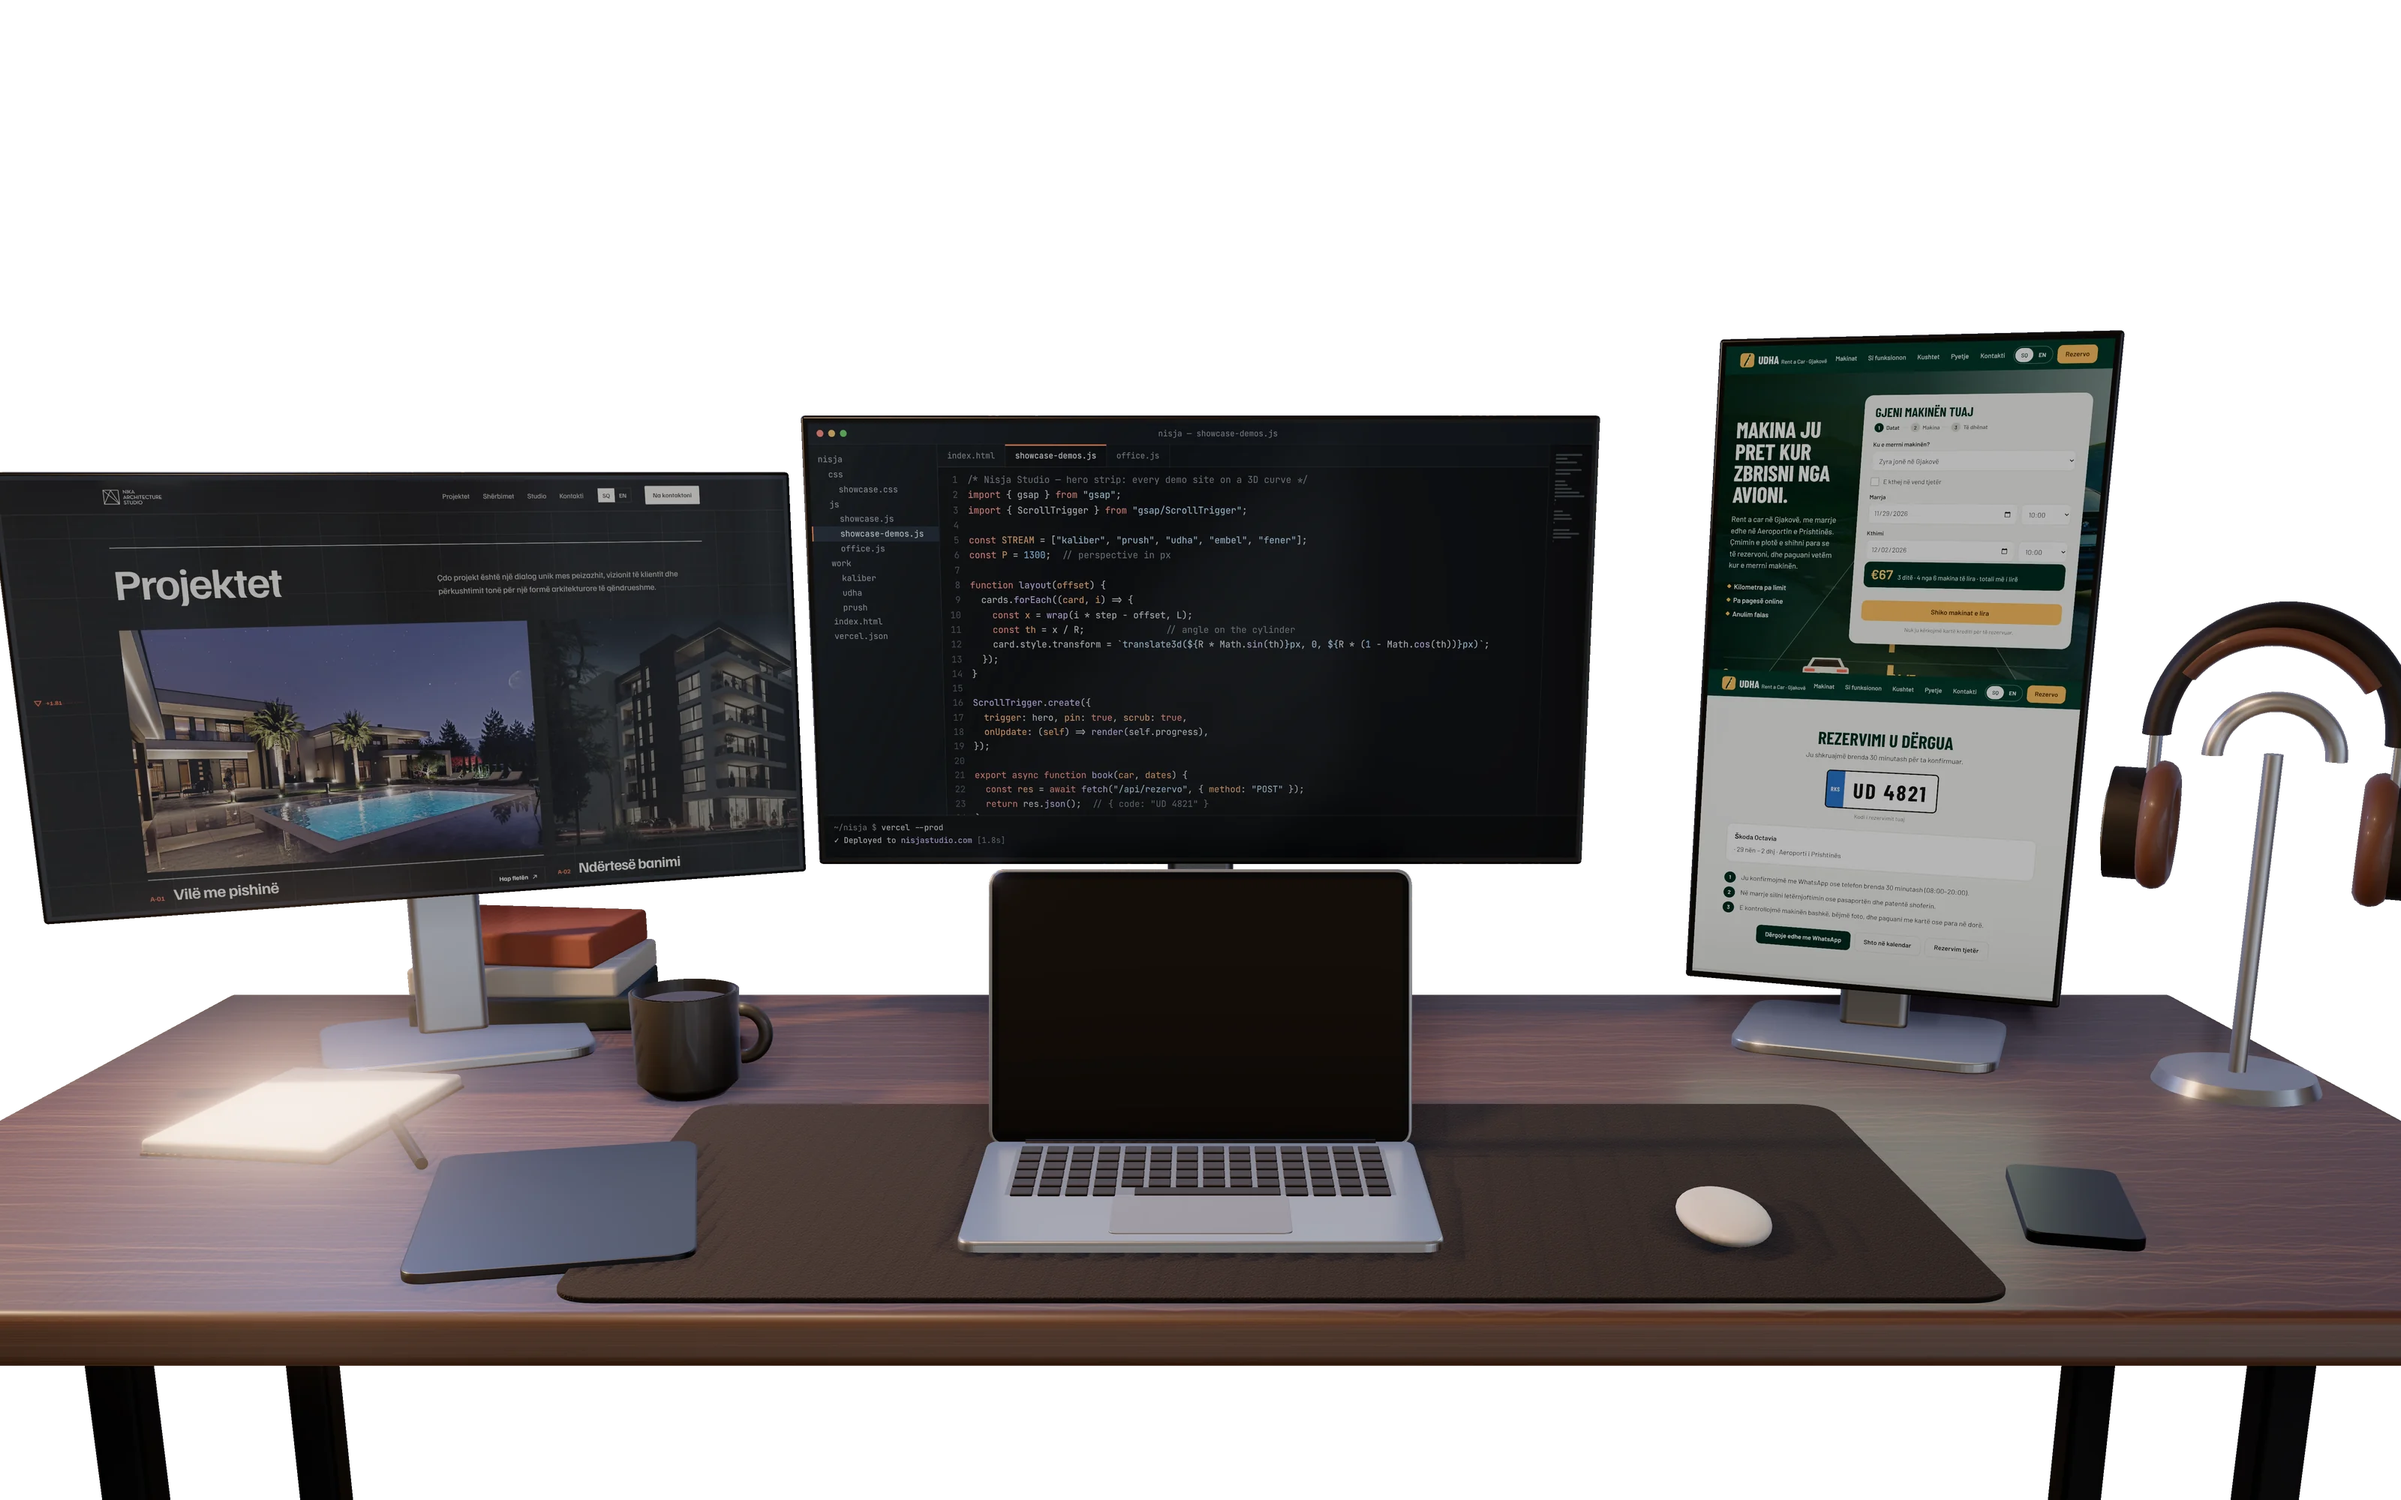
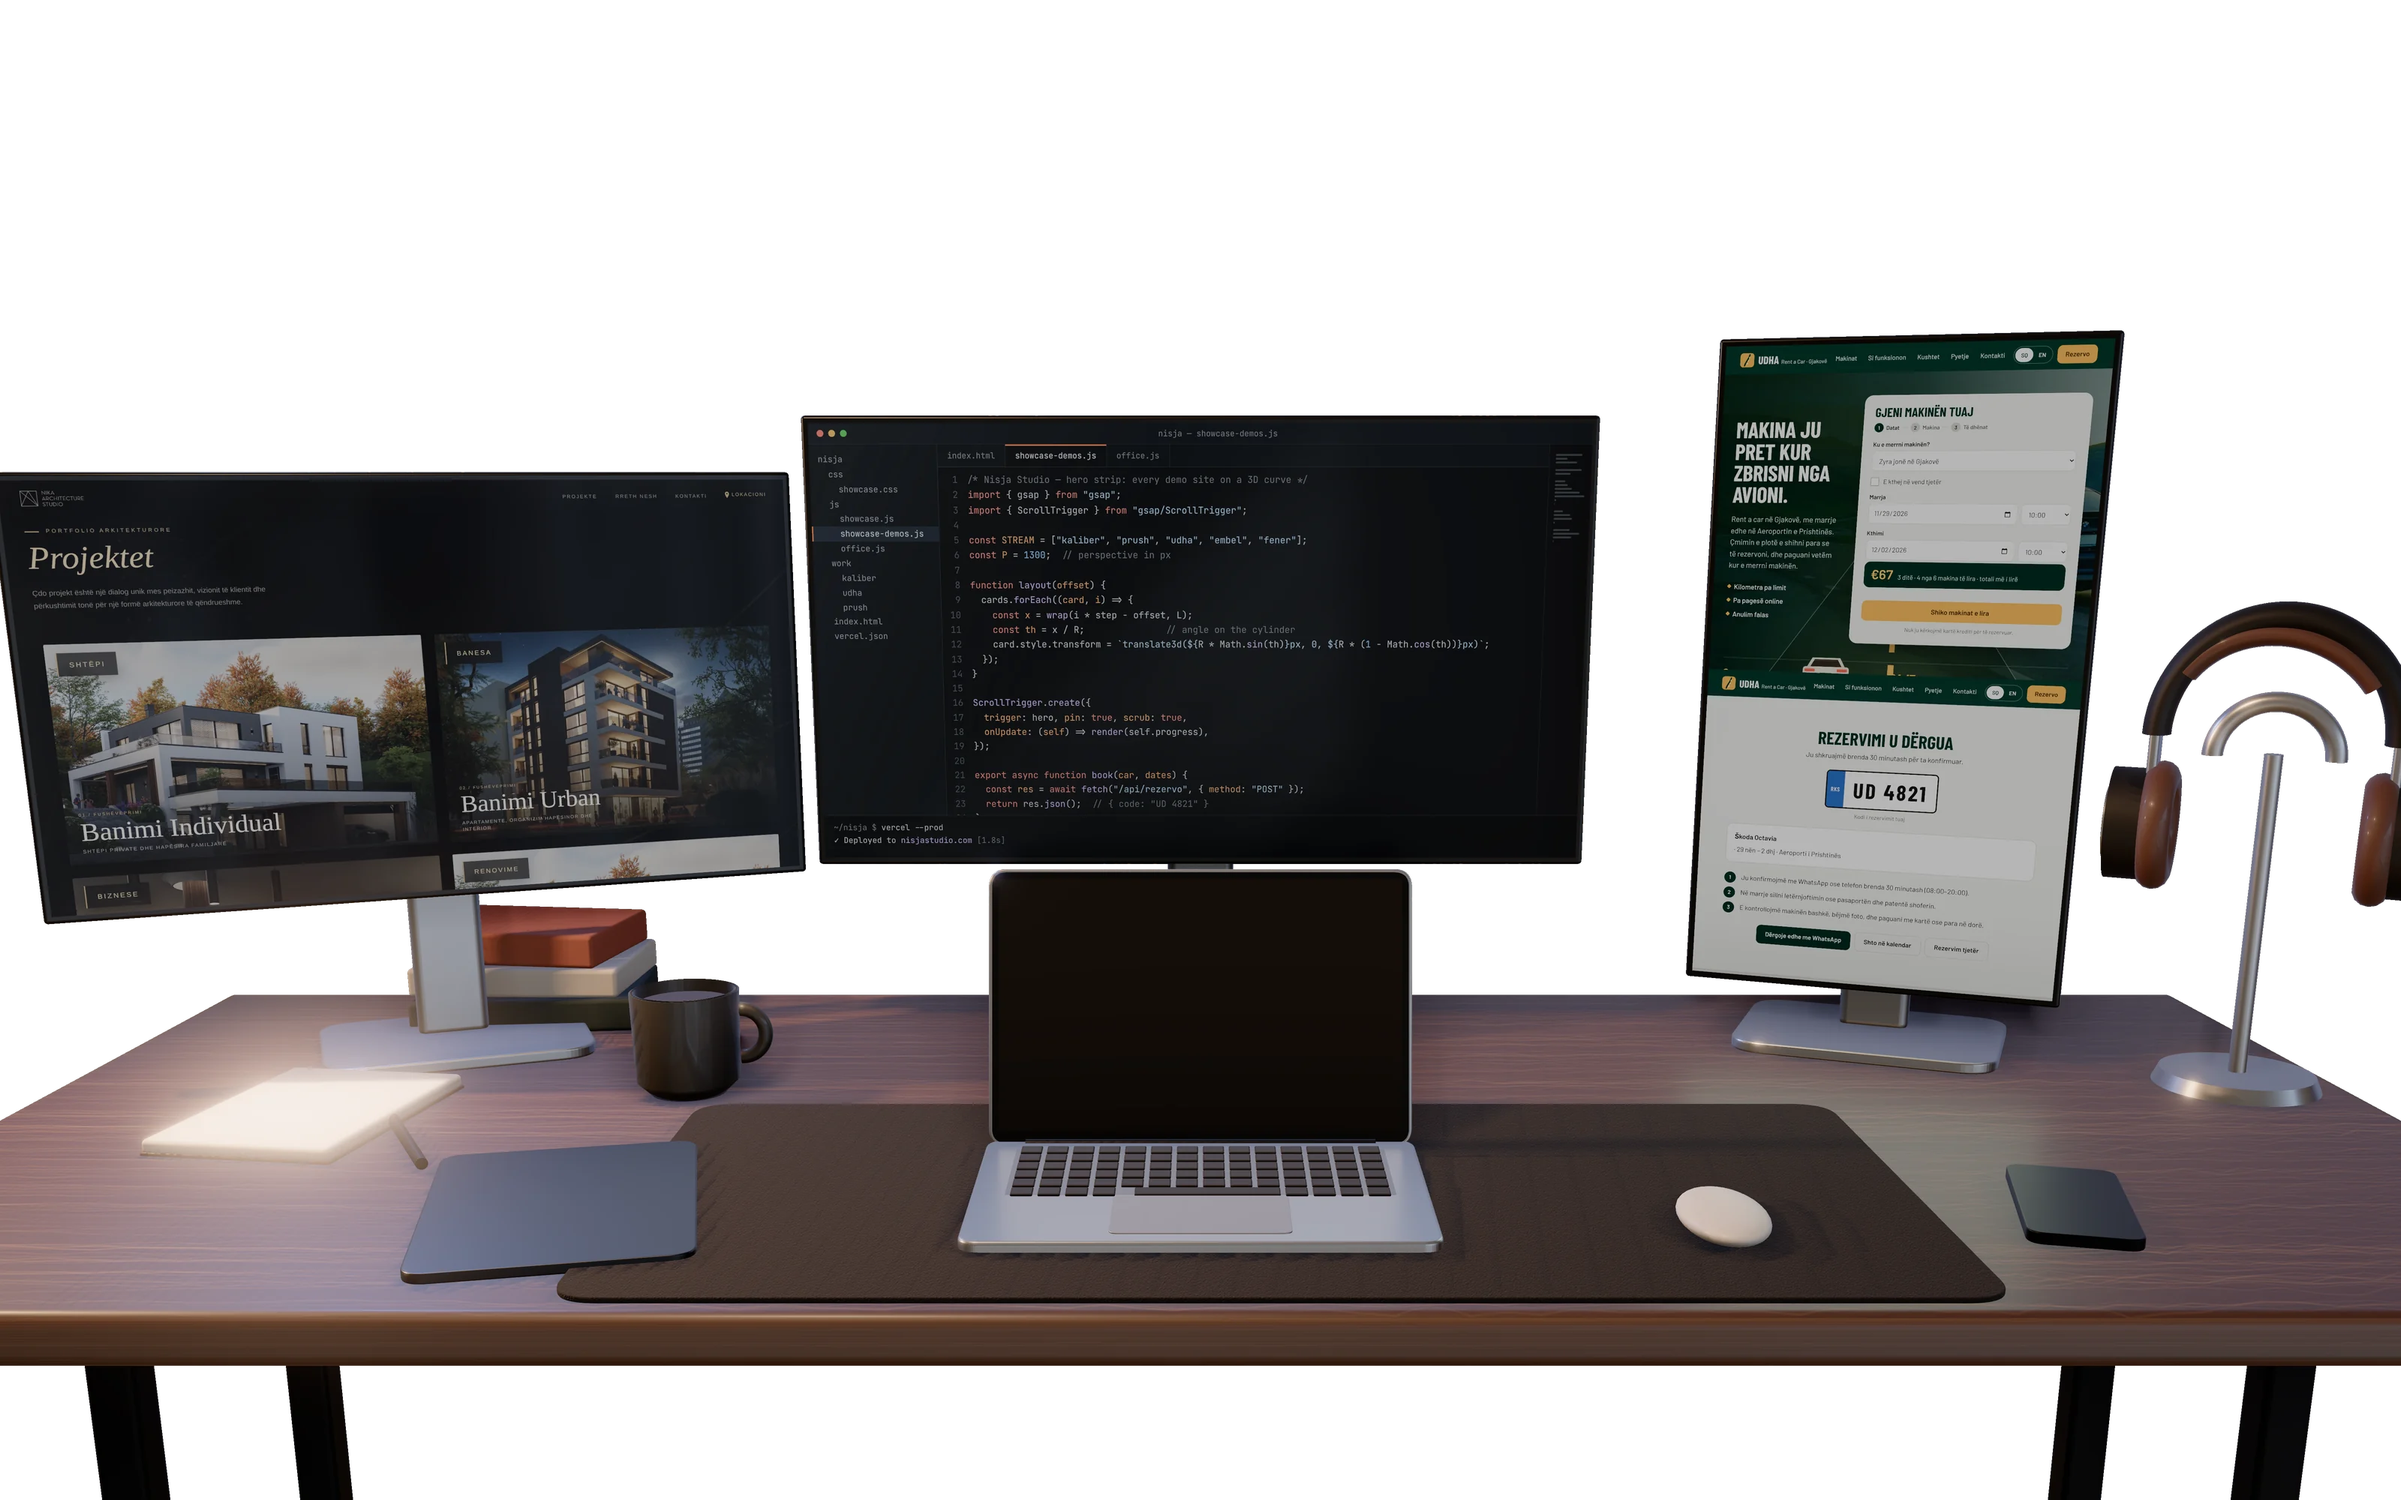
Test page B: real Nika projects on the monitor; locked, timed dive on phones
- left monitor shows the real nika-archi project grid (screenshot of the local copy, no edits)
- the dive no longer follows the page scroll: the page is locked while the desk shows, the first
  swipe/scroll/key plays a timed dive that ends at the top of the real site; one back up at the top reverses
- the laptop screen now covers the whole view on every screen shape before the hand-off

Claude-Session: https://claude.ai/code/session_01WXEzTtESFWsyUaJ2D8Uqiu

Changed region(s): [[0.0, 0.31, 0.3438, 0.62], [0.25, 0.31, 0.3125, 0.341]]

diff --git a/js/office.js b/js/office.js
@@ -1,16 +1,17 @@
-/* Nisja Studio — test page B: a Nisja workstation by a window over the city at night; one scroll flies
-   into the laptop and on into the real site, one scroll up brings you back.
+/* Nisja Studio — test page B: a Nisja workstation by a window over the city at night. One scroll, swipe
+   or key press plays the dive into the laptop and lands at the top of the real site; one back up at the
+   very top plays it in reverse.
    The scene was rendered once, offline and supersampled (js-src/desk-render.src.js), as two depth layers:
    "far" (the window and the night skyline) and "near" (the desk and everything on it, monitors showing
    Nika, the code editor and Udha already baked in with their glow and glass reflections).
    Every frame is drawn fresh on a GPU canvas from the full-resolution images, so the picture stays sharp
    at every point of the zoom. The fly-in is a depth-correct dolly: each layer scales by z / (z − d), so
    the desk rushes past faster than the city. When the laptop's screen fills the view, the canvas fades
-   into the real homepage hero, which is pinned underneath. */
+   into the real homepage, which sits underneath at the top of the page. */
 (function () {
   "use strict";
   var wrap = document.getElementById("zyra"), hero = document.querySelector(".sh");
-  if (!wrap || !hero || !window.gsap || !window.ScrollTrigger) return;
+  if (!wrap || !hero || !window.gsap) return;
   if (window.matchMedia("(prefers-reduced-motion: reduce)").matches) { wrap.remove(); return; }
   var root = document.documentElement, header = document.querySelector(".site-header");
   var T = (window.Nisja && window.Nisja.t) || function (sq) { return sq; };
@@ -43,9 +44,9 @@
     V = [(L[0] + L[2]) / 2, (L[1] + L[3]) / 2];
     s0 = Math.max(vw / F.w, vh / F.h);
     ox = Math.min(0, Math.max(vw - F.w * s0, vw / 2 - V[0] * s0)); oy = (vh - F.h * s0) / 2;
-    kEnd = framing === "land" ? Math.max(vw / (s0 * lw), vh / (s0 * lh)) : vw / (s0 * lw);
+    kEnd = Math.max(vw / (s0 * lw), vh / (s0 * lh));               // the laptop screen ends up covering the whole view
     var sh = s0 * kEnd * lh;
-    endPos = framing === "land" ? [vw / 2, Math.min(vh / 2, sh / 2)] : [vw / 2, vh / 2];
+    endPos = [vw / 2, Math.min(vh / 2, sh / 2)];                     // keep its top (the site's header) at the top
     want();
   }
 
@@ -54,7 +55,7 @@
   function ease(t) { return t < 0.5 ? 4 * t * t * t : 1 - Math.pow(-2 * t + 2, 3) / 2; }
   function draw() {
     if (!ready) return;
-    var e = ease(Math.min(1, progress / 0.86));
+    var e = Math.min(1, progress / 0.86);
     var zn = F.zNear, zf = F.zFar, d = e * zn * (1 - 1 / kEnd);
     var kn = zn / (zn - d), kf = zf / (zf - d);
     var st0 = [ox + V[0] * s0, oy + V[1] * s0], pe = e * e * (3 - 2 * e);
@@ -79,55 +80,65 @@
   function want() { if (!raf && active) raf = requestAnimationFrame(tick); }
   window.addEventListener("pointermove", function (e) { mx = e.clientX / vw - 0.5; my = e.clientY / vh - 0.5; want(); }, { passive: true });
 
-  /* ---------- scroll ---------- */
-  root.classList.add("zy-cover"); window.__nisjaPaused = true;
-  var st = ScrollTrigger.create({
-    trigger: hero,
-    start: function () { return "top " + (header ? header.offsetHeight : 0) + "px"; },
-    end: "+=180%", pin: true, pinSpacing: true, refreshPriority: 1, scrub: true,
-    onUpdate: function (self) {
-      progress = self.progress; want();
-      if ((progress > 0.01) !== wrap.classList.contains("is-moving")) wrap.classList.toggle("is-moving");
-      var fade = Math.min(1, Math.max(0, (progress - 0.86) / 0.12));
-      var op = String(1 - fade); if (wrap.style.opacity !== op) wrap.style.opacity = op;
-      var covered = progress < 0.84;                               // the hero's own effects stay paused while covered
-      if (covered !== window.__nisjaPaused) { window.__nisjaPaused = covered; root.classList.toggle("zy-cover", covered); }
-      var done = fade >= 1;
-      if (done === active) { active = !done; wrap.classList.toggle("is-done", done); if (active) want(); }
-    }
-  });
-
-  /* ---------- one scroll, swipe or key plays the whole fly-in (and one back up returns) ---------- */
-  var auto = false, touchY = null;
+  /* ---------- one gesture plays the dive; the page stays locked while the desk shows ----------
+     Mobile browsers start scrolling natively before a script can react, so the dive is not tied to the
+     page's scroll at all: it is a timed animation, and when it ends you are at the top of the real site.
+     One scroll or swipe back up at the very top plays it in reverse. */
+  var mode = window.scrollY > 10 ? "site" : "intro", state = { p: mode === "site" ? 1 : 0 }, tween = null, touchY = null;
   function lenis() { return window.NisjaShowcase && window.NisjaShowcase.lenis; }
-  function go(dir) {
-    if (auto) return;
-    var to = dir > 0 ? st.end : st.start;
-    if (Math.abs(window.scrollY - to) < 2) return;
-    auto = true;
-    var done = function () { auto = false; }, ls = lenis();
-    if (ls) ls.scrollTo(to, { duration: dir > 0 ? 1.8 : 1.4, easing: function (t) { return t < 0.5 ? 4 * t * t * t : 1 - Math.pow(-2 * t + 2, 3) / 2; }, lock: true, force: true, onComplete: done });
-    else { window.scrollTo({ top: to, behavior: "smooth" }); setTimeout(done, 1300); }
+  function lock(on) {
+    root.classList.toggle("zy-lock", on); window.__nisjaPaused = on; root.classList.toggle("zy-cover", on);
+    var ls = lenis(); if (ls) { if (on) ls.stop(); else ls.start(); }
   }
-  function zone(dir) {                                           // inside the intro, or at the hero's top going back up
-    var y = window.scrollY;
-    return dir > 0 ? y < st.end - 2 : (y > st.start + 2 && y <= st.end + 6);
+  function apply() {
+    progress = state.p; draw();
+    if ((progress > 0.01) !== wrap.classList.contains("is-moving")) wrap.classList.toggle("is-moving");
+    var fade = Math.min(1, Math.max(0, (progress - 0.84) / 0.14));
+    wrap.style.opacity = String(1 - fade);
   }
-  function grab(e, dir) { if (!zone(dir) && !auto) return false; e.preventDefault(); e.stopImmediatePropagation(); if (!auto) go(dir); return true; }
-  window.addEventListener("wheel", function (e) { if (Math.abs(e.deltaY) < 1) return; grab(e, e.deltaY > 0 ? 1 : -1); }, { passive: false, capture: true });
+  function play(dir) {
+    if (mode === "playing") return;
+    mode = "playing"; active = true;
+    if (dir < 0) { var ls = lenis(); if (ls) ls.scrollTo(0, { immediate: true, force: true }); window.scrollTo(0, 0); wrap.classList.remove("is-done"); }
+    lock(true);
+    if (tween) tween.kill();
+    tween = gsap.to(state, { p: dir > 0 ? 1 : 0, duration: dir > 0 ? 1.75 : 1.3, ease: "power2.inOut", onUpdate: apply, onComplete: function () {
+      if (dir > 0) { mode = "site"; active = false; wrap.classList.add("is-done"); lock(false); }
+      else { mode = "intro"; }
+    } });
+  }
+  function atTop() { return window.scrollY <= 1; }
+  window.addEventListener("wheel", function (e) {
+    if (Math.abs(e.deltaY) < 1) return;
+    if (mode === "playing" || (mode === "intro") || (mode === "site" && e.deltaY < 0 && atTop())) {
+      e.preventDefault(); e.stopImmediatePropagation();
+      if (mode === "intro" && e.deltaY > 0) play(1); else if (mode === "site") play(-1);
+    }
+  }, { passive: false, capture: true });
   window.addEventListener("touchstart", function (e) { touchY = e.touches[0].clientY; }, { passive: true, capture: true });
   window.addEventListener("touchmove", function (e) {
     if (touchY === null) return;
-    var dy = touchY - e.touches[0].clientY; if (Math.abs(dy) < 8) { if (auto) e.preventDefault(); return; }
-    if (grab(e, dy > 0 ? 1 : -1)) touchY = null;
+    var dy = touchY - e.touches[0].clientY;                       // > 0: finger moves up (scroll down)
+    if (mode === "intro" || mode === "playing") {
+      e.preventDefault();                                           // from the very first pixel: no native scroll at all
+      if (mode === "intro" && dy > 6) { touchY = null; play(1); }
+    } else if (mode === "site" && atTop() && dy < -6) {
+      e.preventDefault(); touchY = null; play(-1);
+    }
   }, { passive: false, capture: true });
   window.addEventListener("touchend", function () { touchY = null; }, { passive: true, capture: true });
   window.addEventListener("keydown", function (e) {
-    var k = e.key, dir = (k === "ArrowDown" || k === "PageDown" || (k === " " && !e.shiftKey)) ? 1 : (k === "ArrowUp" || k === "PageUp" || (k === " " && e.shiftKey)) ? -1 : 0;
-    if (!dir || /input|textarea|select/i.test((e.target && e.target.tagName) || "")) return;
-    grab(e, dir);
+    if (/input|textarea|select/i.test((e.target && e.target.tagName) || "")) return;
+    var k = e.key, down = k === "ArrowDown" || k === "PageDown" || (k === " " && !e.shiftKey), up = k === "ArrowUp" || k === "PageUp" || (k === " " && e.shiftKey);
+    if (mode === "playing" && (down || up)) { e.preventDefault(); return; }
+    if (mode === "intro" && down) { e.preventDefault(); play(1); }
+    else if (mode === "site" && up && atTop()) { e.preventDefault(); play(-1); }
   }, { capture: true });
 
-  var rt; window.addEventListener("resize", function () { clearTimeout(rt); rt = setTimeout(function () { layout(); ScrollTrigger.refresh(); }, 120); });
-  layout(); ScrollTrigger.refresh();
+  window.__zySeek = function (p) { if (tween) tween.kill(); state.p = p; active = true; apply(); };   // for screenshots and tests
+  if (mode === "site") { active = false; wrap.classList.add("is-done"); wrap.style.opacity = "0"; }
+  else lock(true);
+
+  var rt; window.addEventListener("resize", function () { clearTimeout(rt); rt = setTimeout(layout, 120); });
+  layout();
 })();

diff --git a/css/office.css b/css/office.css
@@ -10,3 +10,5 @@
 .zy.is-moving .zy-hint { opacity: 0; transform: translateY(6px); transition-delay: 0s; }
 @keyframes zyNudge { 50% { transform: rotate(45deg) translate(3px, 1px); } }
 .zy.is-done { visibility: hidden; pointer-events: none; }
+html.zy-lock, html.zy-lock body { overflow: hidden !important; overscroll-behavior: none; }
+.zy { touch-action: none; }
